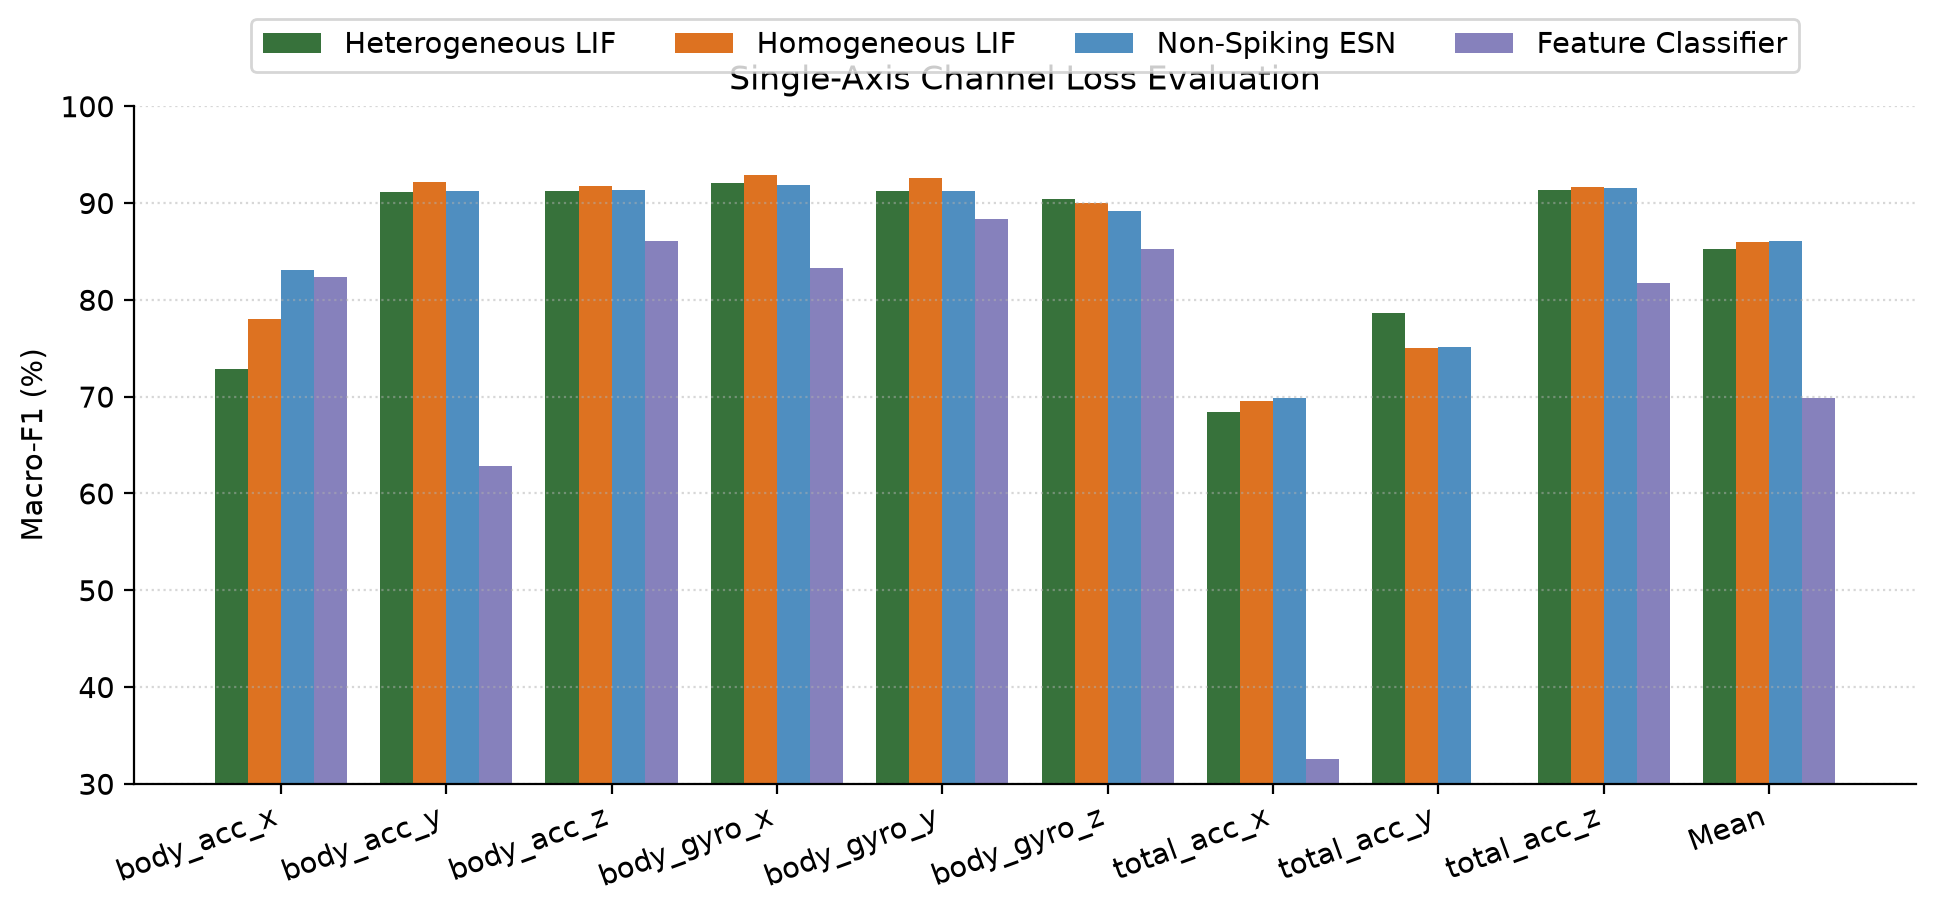
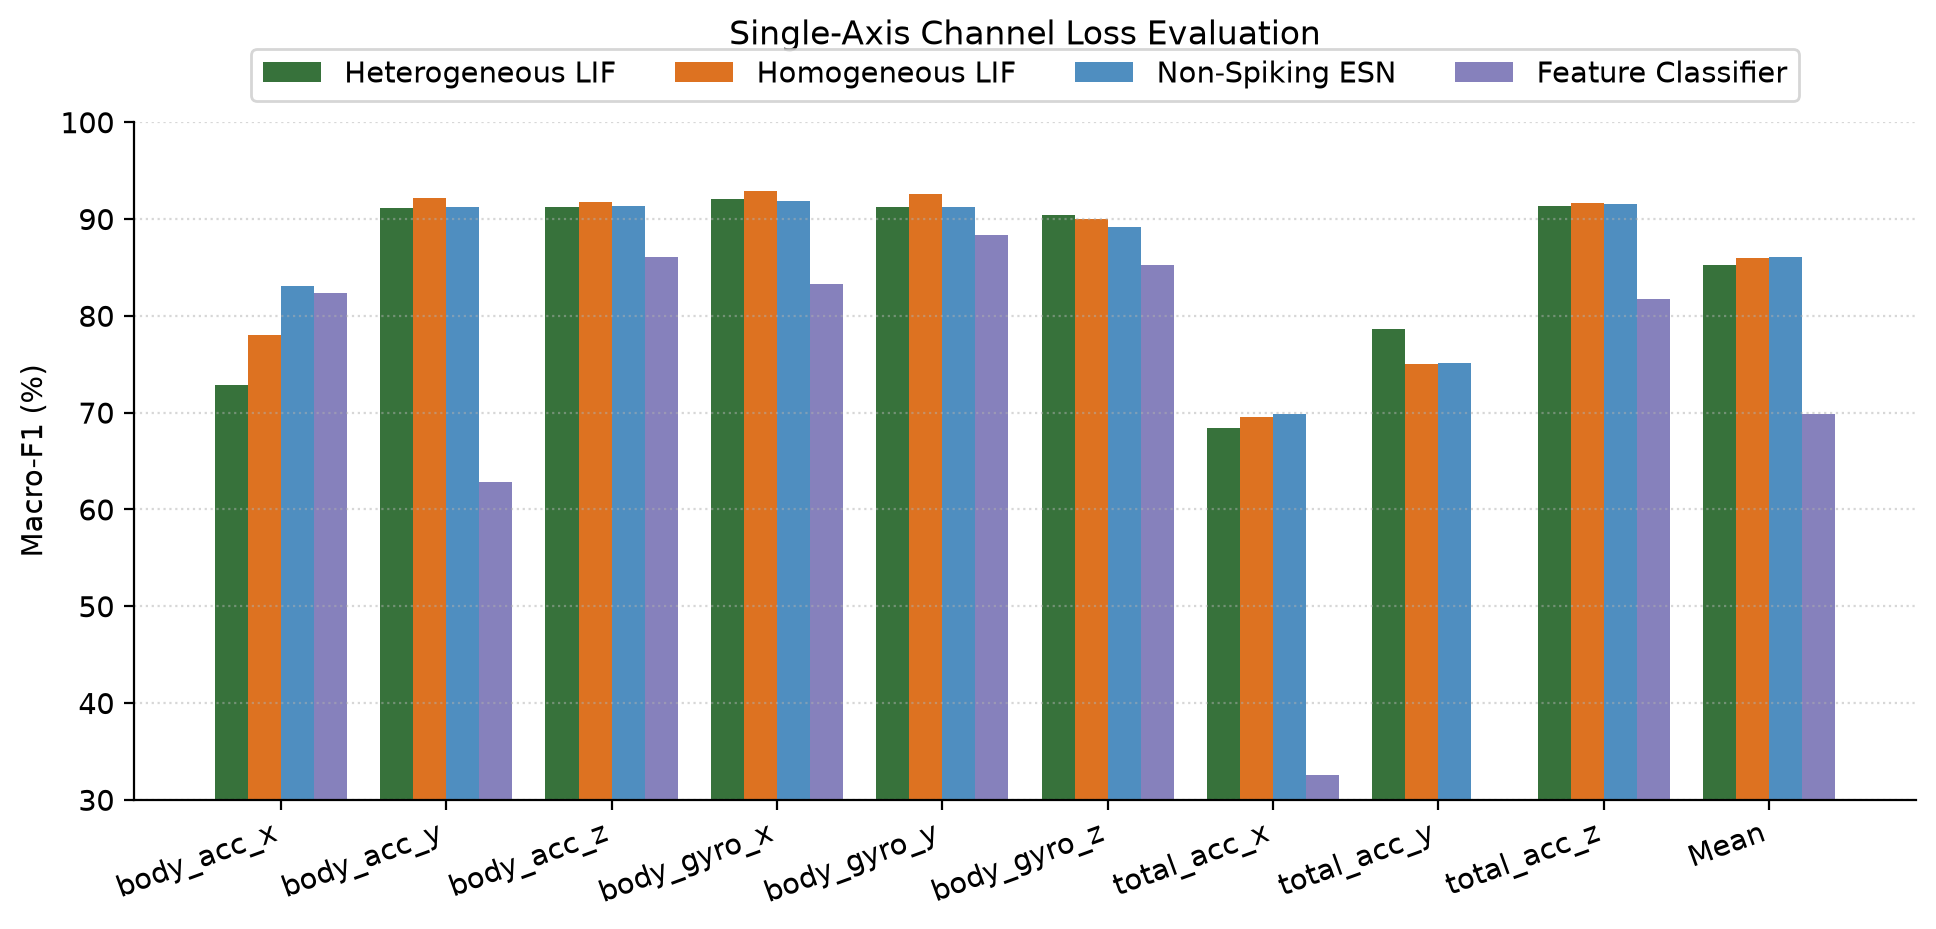
Adjust title padding on channel loss figure

diff --git a/src/evaluation/plots.py b/src/evaluation/plots.py
@@ -175,9 +175,9 @@ def plot_channel_loss(results: dict, out_dir: Path) -> Path:
     ax.set_xticklabels(labels, rotation=20, ha="right")
     ax.set_ylabel("Macro-F1 (%)")
     ax.set_ylim(30, 100)
-    ax.set_title("Single-Axis Channel Loss Evaluation")
+    ax.set_title("Single-Axis Channel Loss Evaluation", pad=28)
     ax.grid(True, axis="y", linestyle=":", alpha=0.5)
-    ax.legend(ncol=4, loc="upper center", bbox_to_anchor=(0.5, 1.15), frameon=True)
+    ax.legend(ncol=4, loc="upper center", bbox_to_anchor=(0.5, 1.13), frameon=True)
 
     out_path = out_dir / "fig3_channel_loss.png"
     fig.savefig(out_path)
